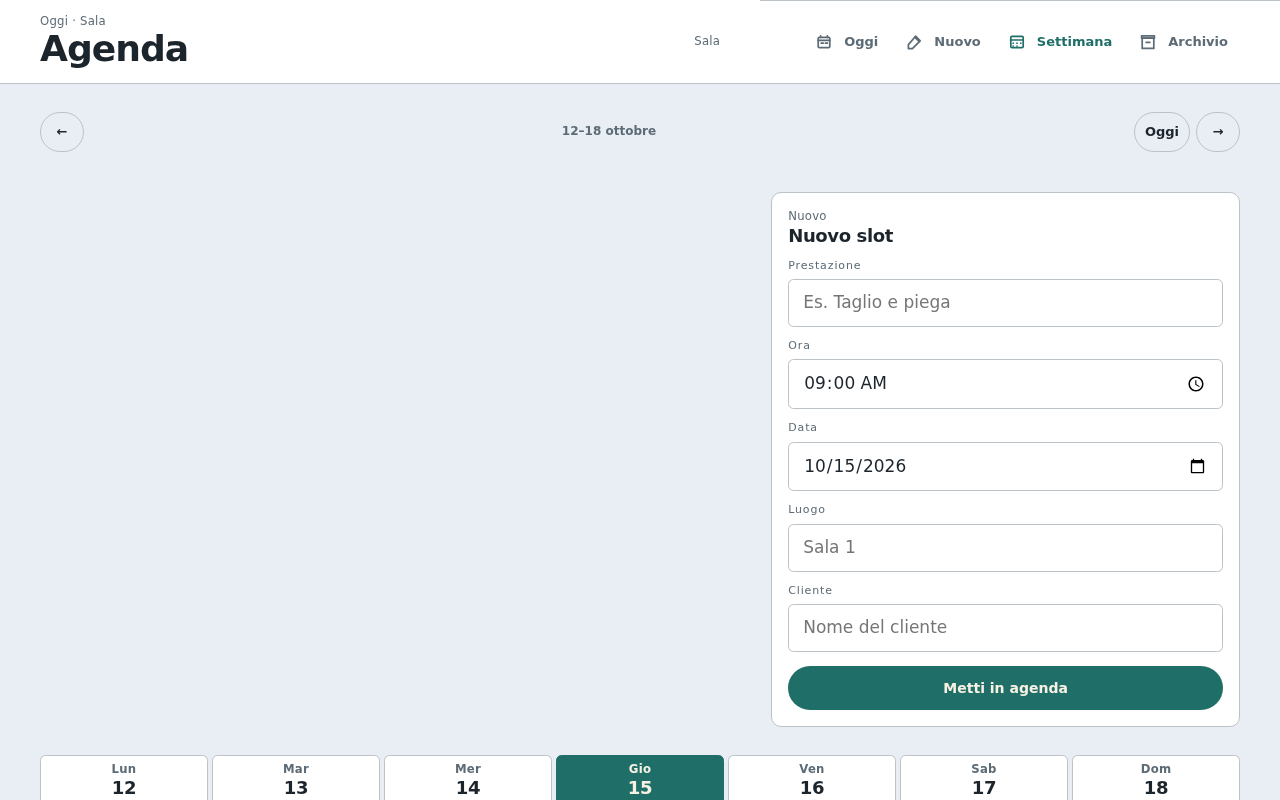
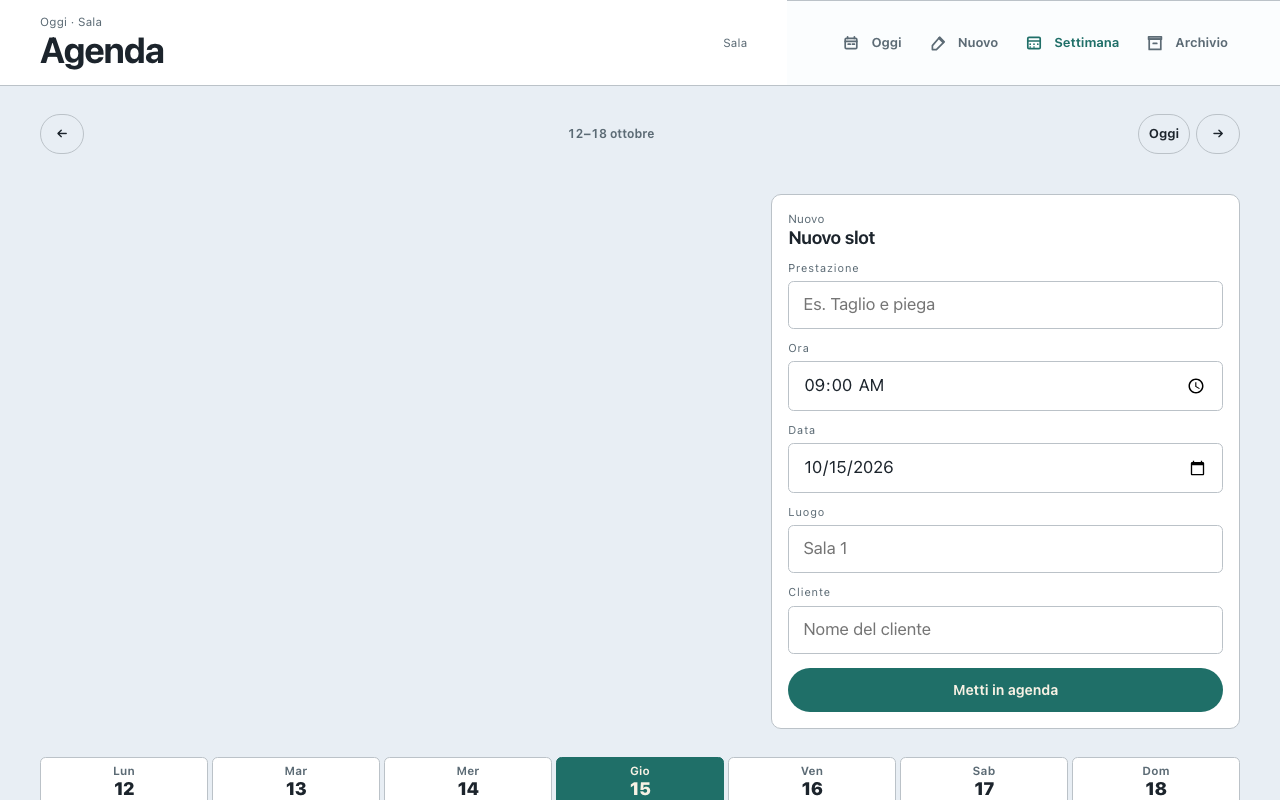
chore: checkpoint agenda visual work and browser artifacts (not a release)

diff --git a/src/lib/ai/compose-product.ts b/src/lib/ai/compose-product.ts
@@ -443,11 +443,14 @@ function synthesizeSpec(brief: string): PipelineSpec {
 }
 
 const AGENDA_EDIT_GLYPH =
-  '<svg viewBox="0 0 24 24" width="18" height="18" fill="none" stroke="currentColor" stroke-width="1.7" stroke-linecap="round" stroke-linejoin="round" aria-hidden="true"><path d="M13.6 6.2 18.2 10.8 10.4 18.6H6.4v-4z"/><path d="M12.8 7.2l4.2 4.2"/></svg>';
+  '<svg viewBox="0 0 24 24" width="20" height="20" fill="none" stroke="currentColor" stroke-width="1.7" stroke-linecap="round" stroke-linejoin="round" aria-hidden="true"><path d="m14.5 5.5 4 4M4.5 19.5l4.7-1.1L19 8.6a2.8 2.8 0 0 0-4-4l-9.4 9.8z"/><path d="m5.6 14.4 3.6 4"/></svg>';
 const AGENDA_DEL_GLYPH =
-  '<svg viewBox="0 0 24 24" width="18" height="18" fill="none" stroke="currentColor" stroke-width="1.7" stroke-linecap="round" stroke-linejoin="round" aria-hidden="true"><path d="M6.2 8.2h11.6v10.2H6.2z"/><path d="M5.6 5.8h12.8v2.4H5.6z"/><path d="M10.2 12.4h3.6"/></svg>';
+  '<svg viewBox="0 0 24 24" width="20" height="20" fill="none" stroke="currentColor" stroke-width="1.7" stroke-linecap="round" stroke-linejoin="round" aria-hidden="true"><rect x="4" y="4.5" width="16" height="4" rx="1.2"/><path d="M5.5 8.5v10a1 1 0 0 0 1 1h11a1 1 0 0 0 1-1v-10M9.5 12h5"/></svg>';
 const AGENDA_ACTION_LABELS: Record<string, string> = {
   prenotato: "Conferma", confermato: "Inizia", "in-corso": "Concludi", concluso: "Riapri",
+};
+const AGENDA_STATUS_LABELS: Record<string, string> = {
+  prenotato: "Da confermare", confermato: "Confermato", "in-corso": "In corso", concluso: "Concluso",
 };
 const POCKET_EMPTY_MARK =
   '<svg viewBox="0 0 24 24" fill="none" stroke="currentColor" stroke-width="1.6" stroke-linecap="round" stroke-linejoin="round" aria-hidden="true"><rect x="5" y="4.5" width="14" height="15" rx="2"/><path d="M8.2 9.2h7.6M8.2 12.4h7.6M8.2 15.6h5"/></svg>';
@@ -462,7 +465,7 @@ function agendaRailMarkup(spec: PipelineSpec, grammar: LayoutGrammar): string {
     .map((e, i) => {
       const state = i === 0 ? "on" : "idle";
       const status = e.status || "prenotato";
-      return `<article class="slot" data-id="${e.id}" data-state="${state}" data-status="${status}"><time class="time" datetime="${e.kicker}">${e.kicker}</time><div class="slot-body"><h2>${e.title}</h2><p class="notes"><span class="chip ${status}">${status}</span> · ${e.note} · ${e.meta}</p>${agendaActs(e.id, status)}</div></article>`;
+      return `<article class="slot" data-id="${e.id}" data-state="${state}" data-status="${status}"><time class="time" datetime="${e.kicker}">${e.kicker}</time><div class="slot-body"><h2>${e.title}</h2><p class="notes slot-detail">${e.note} · ${e.meta}</p><span class="chip slot-status ${status}">${AGENDA_STATUS_LABELS[status] || status}</span>${agendaActs(e.id, status)}</div></article>`;
     })
     .join("");
   return `<div class="day-head"><p class="kicker">${spec.kicker}</p><h2 id="day-label">${spec.rows.length} ${grammar.voice.census}</h2></div><div class="day-rail" data-fenix-rail="day" id="day-rail" role="tabpanel" aria-labelledby="day-label">${slots}</div>`;
@@ -1080,7 +1083,7 @@ ${visualKitCss(tokens, grammar)}
 <div class="app"${deskAttr}>
 <header class="${headerExtra.trim()}">
   <div>
-    ${grammar.id === "phone-seed" ? "" : `<p class="kicker">${spec.kicker}</p>`}
+    ${grammar.id === "phone-seed" || grammar.id === "agenda" ? "" : `<p class="kicker">${spec.kicker}</p>`}
     <h1 class="brand">${spec.name}</h1>
   </div>
   <p class="place">${spec.place}</p>
@@ -1118,6 +1121,7 @@ const kicker=${JSON.stringify(spec.kicker)};
 const place=${JSON.stringify(spec.place)};
 const AGENDA_CYCLE={prenotato:"confermato",confermato:"in-corso","in-corso":"concluso",concluso:"prenotato"};
 const AGENDA_ACTION_LABELS=${JSON.stringify(AGENDA_ACTION_LABELS)};
+const AGENDA_STATUS_LABELS=${JSON.stringify(AGENDA_STATUS_LABELS)};
 const AGENDA_EDIT_GLYPH=${JSON.stringify(AGENDA_EDIT_GLYPH)};
 const AGENDA_DEL_GLYPH=${JSON.stringify(AGENDA_DEL_GLYPH)};
 const KICKER_CYCLE={scouting:"trattativa",trattativa:"firma",firma:"chiuso",chiuso:"scouting","in-forno":"al-passo","al-passo":"in-sala","in-sala":"in-forno",arrivo:"in-house","in-house":"partenza",partenza:"arrivo"};
@@ -1141,6 +1145,12 @@ function nowDate(){
   return n!=null && isFinite(Number(n))?new Date(Number(n)):new Date();
 }
 function todayIso(){ return isoDay(nowDate()); }
+function agendaDateLabel(iso){
+  var p=String(iso).split("-");
+  var date=new Date(Number(p[0]),Number(p[1])-1,Number(p[2]),12);
+  if(!isFinite(date.getTime())) return iso;
+  return date.toLocaleDateString("it-IT",{weekday:"long",day:"numeric",month:"long"});
+}
 function isIsoDay(s){
   if(!s || String(s).length!==10) return false;
   var p=String(s).split("-");
@@ -1664,13 +1674,13 @@ function renderStats(){
 function slotMarkup(e,i){
   var st=e.status||"prenotato";
   var advanceLabel=AGENDA_ACTION_LABELS[st]||"Conferma";
-  return '<article class="slot" data-id="'+e.id+'" data-day="'+(e.day||"")+'" data-state="'+(i===0?"on":"idle")+'" data-status="'+st+'"><time class="time" datetime="'+e.kicker+'">'+e.kicker+'</time><div class="slot-body"><h2>'+e.title+'</h2><p class="notes">'+chip(st)+" · "+e.note+" · "+e.meta+'</p><div class="slot-actions"><button class="btn sm ghost" data-act="advance" data-id="'+e.id+'" aria-label="'+advanceLabel+' appuntamento">'+advanceLabel+'</button><button class="btn sm ghost" data-act="edit" data-id="'+e.id+'" aria-label="Modifica">'+AGENDA_EDIT_GLYPH+'</button><button class="btn sm ghost" data-act="del" data-id="'+e.id+'" aria-label="Archivia">'+AGENDA_DEL_GLYPH+'</button></div></div></article>';
+  return '<article class="slot" data-id="'+e.id+'" data-day="'+(e.day||"")+'" data-state="'+(i===0?"on":"idle")+'" data-status="'+st+'"><time class="time" datetime="'+e.kicker+'">'+e.kicker+'</time><div class="slot-body"><h2>'+e.title+'</h2><p class="notes slot-detail">'+e.note+" · "+e.meta+'</p><span class="chip slot-status '+st+'">'+(AGENDA_STATUS_LABELS[st]||st)+'</span><div class="slot-actions"><button class="btn sm ghost" data-act="advance" data-id="'+e.id+'" aria-label="'+advanceLabel+' appuntamento">'+advanceLabel+'</button><button class="btn sm ghost" data-act="edit" data-id="'+e.id+'" aria-label="Modifica">'+AGENDA_EDIT_GLYPH+'</button><button class="btn sm ghost" data-act="del" data-id="'+e.id+'" aria-label="Archivia">'+AGENDA_DEL_GLYPH+'</button></div></div></article>';
 }
 function renderAgenda(){
   hydrateAgenda();
   var focus=view===tabDefs[2].id?selectedDay:todayIso();
   var rows=data.items.filter(function(e){return e.day===focus;}).slice().sort(function(a,b){return String(a.kicker).localeCompare(String(b.kicker));});
-  var html='<div class="day-head"><p class="kicker">'+kicker+" · "+focus+'</p><h2 id="day-label">'+rows.length+" "+census+"</h2></div>";
+  var html='<div class="day-head"><p class="kicker"><time datetime="'+focus+'">'+agendaDateLabel(focus)+'</time></p><h2 id="day-label">'+rows.length+" "+census+"</h2></div>";
   html+='<div class="day-rail" data-fenix-rail="day" id="day-rail" role="tabpanel" aria-labelledby="day-label">';
   if(!rows.length) html+=emptyBox();
   else rows.forEach(function(e,i){ html+=slotMarkup(e,i); });

diff --git a/src/lib/projects/native-app-style.ts b/src/lib/projects/native-app-style.ts
@@ -25,6 +25,20 @@ html[data-grammar] :is(nav.tabs,nav.rail) svg{width:28px;height:28px;flex:0 0 28
 html[data-grammar] :is(nav.tabs,nav.rail) button.on svg{stroke-width:2.2}
 html[data-grammar] nav.rail button{min-height:44px;border-radius:12px;line-height:1.3}
 html[data-grammar] .week-day{border-radius:12px;min-height:64px}
+html[data-grammar="agenda"] .day-head{padding:2px 0 18px}
+html[data-grammar="agenda"] .day-head .kicker{font-size:14px;letter-spacing:0;margin-bottom:5px;text-transform:none}
+html[data-grammar="agenda"] .day-head .kicker::first-letter{text-transform:uppercase}
+html[data-grammar="agenda"] .day-head h2{font-size:24px;line-height:1.2;letter-spacing:-.025em}
+html[data-grammar="agenda"] .day-rail{gap:12px}
+html[data-grammar="agenda"] .slot-body{min-width:0}
+html[data-grammar="agenda"] .slot-detail{margin:4px 0 9px;overflow-wrap:anywhere}
+html[data-grammar="agenda"] .slot-status{font-family:inherit;font-size:12px;font-weight:600;letter-spacing:0;line-height:1.3;padding:4px 9px;min-height:26px;color:var(--fg);background:var(--surface);border-color:var(--line)}
+html[data-grammar="agenda"] .slot-status::before{content:"";width:6px;height:6px;border-radius:50%;background:currentColor;margin-right:6px;flex-shrink:0}
+html[data-grammar="agenda"] .slot-status.in-corso::before{background:var(--accent)}
+html[data-grammar="agenda"] .slot-actions{gap:6px;margin-top:12px}
+html[data-grammar="agenda"] .slot-actions [data-act="advance"]{background:var(--accent);color:var(--accent-ink);border:1px solid var(--accent);box-shadow:none}
+html[data-grammar="agenda"] .slot-actions :is([data-act="edit"],[data-act="del"]){border-color:transparent;background:transparent;display:inline-flex;align-items:center;justify-content:center}
+html[data-grammar="agenda"] .slot-actions svg{width:20px;height:20px;stroke-width:1.7;overflow:visible}
 html[data-grammar] .pocket-list .card,html[data-grammar] .home-recent .card{border-radius:0;box-shadow:none}
 html[data-grammar] :is(.btn,input,select,textarea,nav button):focus-visible{outline:3px solid var(--accent);outline-offset:3px}
 @media(max-width:599px){

diff --git a/src/lib/projects/agenda-runtime-browser.test.ts b/src/lib/projects/agenda-runtime-browser.test.ts
@@ -514,7 +514,8 @@ describe("Agenda calendar edges Fri/Sat/Sun, validation, date keep", () => {
       const satPage = await openClock(2026, 9, 5, "agenda-clock-sat");
       try {
         await satPage.locator('nav button[data-view="oggi"]').click();
-        assert.match(await satPage.locator(".day-head .kicker").innerText(), /2026-09-05/);
+        assert.equal(await satPage.locator(".day-head time").getAttribute("datetime"), "2026-09-05");
+        assert.match(await satPage.locator(".day-head time").innerText(), /sabato 5 settembre/);
         await assertLabelledBy(satPage, "sat-oggi");
         await satPage.locator('nav button[data-view="settimana"]').click();
         assert.equal(await satPage.locator('.week-day[aria-selected="true"]').getAttribute("data-day"), saturdayIso);
@@ -527,7 +528,8 @@ describe("Agenda calendar edges Fri/Sat/Sun, validation, date keep", () => {
       const sunPage = await openClock(2026, 9, 6, "agenda-clock-sun");
       try {
         await sunPage.locator('nav button[data-view="oggi"]').click();
-        assert.match(await sunPage.locator(".day-head .kicker").innerText(), /2026-09-06/);
+        assert.equal(await sunPage.locator(".day-head time").getAttribute("datetime"), "2026-09-06");
+        assert.match(await sunPage.locator(".day-head time").innerText(), /domenica 6 settembre/);
         await sunPage.locator('nav button[data-view="settimana"]').click();
         assert.equal(await sunPage.locator('.week-day[aria-selected="true"]').getAttribute("data-day"), sundayIso);
       } finally {
